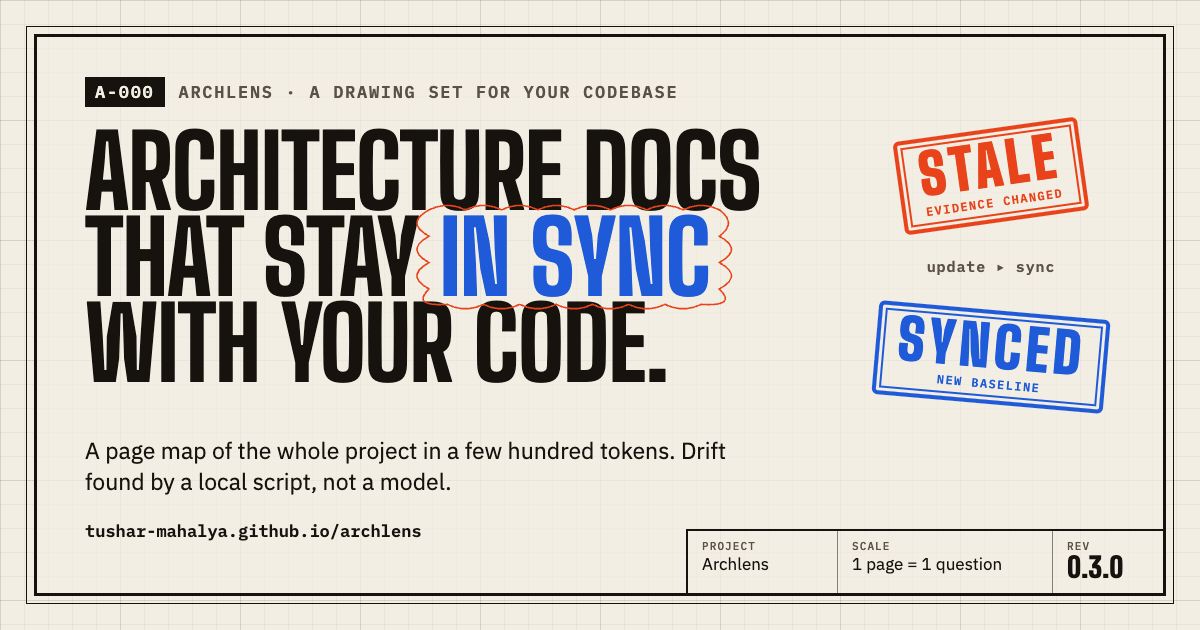
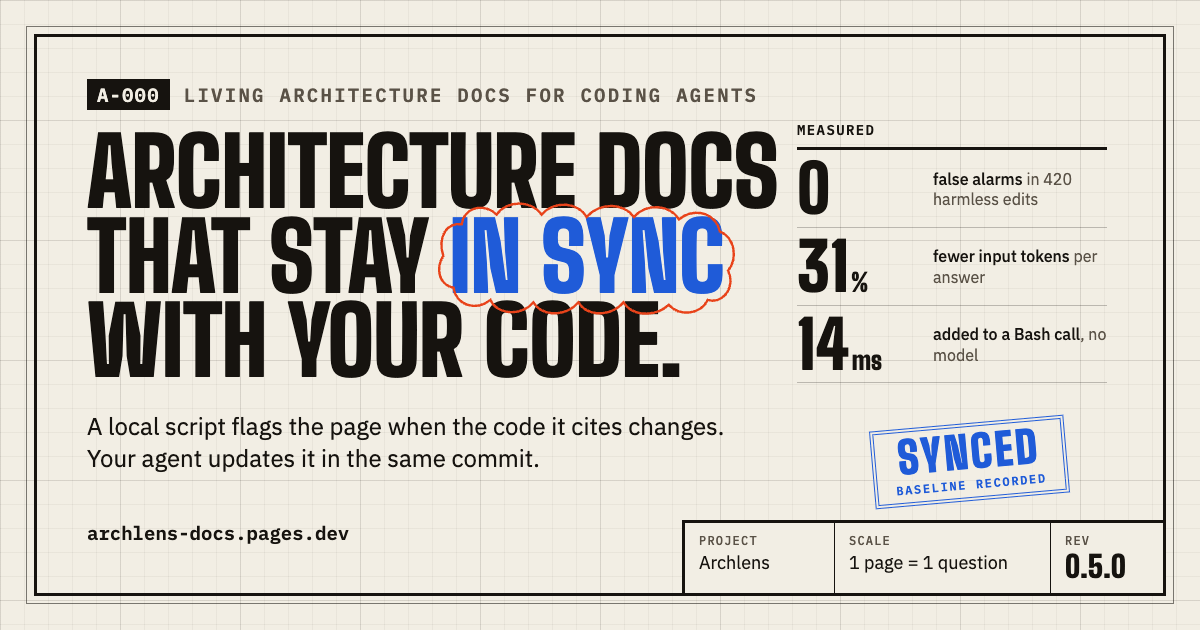
fix(site): refresh the social preview image and trial wording
The preview image still named the retired GitHub Pages address and
revision 0.3.0. Render it again with the current address, revision
0.5.0, and three measured results.

The benchmark limits called the trial monorepo private. It is not part
of this repository, which is the reason its numbers cannot be rerun here.

Changed region(s): [[0.0617, 0.1206, 0.9867, 0.9349], [0.0617, 0.6635, 0.6167, 0.7841], [0.0617, 0.8143, 0.3392, 0.8746]]

diff --git a/site/index.html b/site/index.html
@@ -23,11 +23,11 @@
 <meta property="og:image:type" content="image/png">
 <meta property="og:image:width" content="1200">
 <meta property="og:image:height" content="630">
-<meta property="og:image:alt" content="Archlens drawing sheet: a page marked STALE, then SYNCED.">
+<meta property="og:image:alt" content="Archlens drawing sheet with a SYNCED stamp and three measured results.">
 <meta name="twitter:card" content="summary_large_image">
 <meta name="twitter:title" content="Archlens: living architecture docs for Claude Code and AI coding agents">
 <meta name="twitter:description" content="A page map of the whole project in a few hundred tokens. Stale pages flagged by a local script, refreshed by an isolated update in the same commit as the code.">
-<meta name="twitter:image:alt" content="Archlens drawing sheet: a page marked STALE, then SYNCED.">
+<meta name="twitter:image:alt" content="Archlens drawing sheet with a SYNCED stamp and three measured results.">
 <link rel="icon" href="favicon.svg" type="image/svg+xml">
 <link rel="manifest" href="site.webmanifest">
 <link rel="alternate" type="text/plain" href="llms.txt" title="LLM summary">

diff --git a/docs/benchmarks.md b/docs/benchmarks.md
@@ -179,7 +179,7 @@ was inserted inside a template literal, which is a real change. Two deleted bloc
 copy elsewhere in the file, so the checker reported them as moved.
 
 Limits: one edit at a time. The 0.4.0 row has fewer real edits because that version found no
-enclosing symbol for some ranges. The monorepo is private, so only the last row can be rerun here
+enclosing symbol for some ranges. The monorepo is not part of this repository, so only the last row can be rerun here
 ([`benchmarks/results/drift.json`](../benchmarks/results/drift.json)); use `--root` on your own project.
 The benchmark tests fingerprints, not whether a page's prose is still right.
 
@@ -206,7 +206,7 @@ What this says:
   bytes of their whole pages, for 13 points less recall. Five sections close half of that gap.
 - Treat a section as a first read. Widen to the page when the answer is not there.
 
-Limits: the trial monorepo is private, so its column cannot be rerun from this repository, and its
+Limits: the trial monorepo is not part of this repository, so its column cannot be rerun here, and its
 eight answer keys were written from its own handbook. The question text is the query; an agent can
 choose better words. No model was called, so the effect on answer quality and cost is not measured.
 
